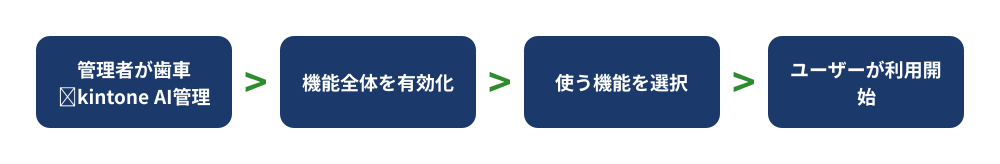
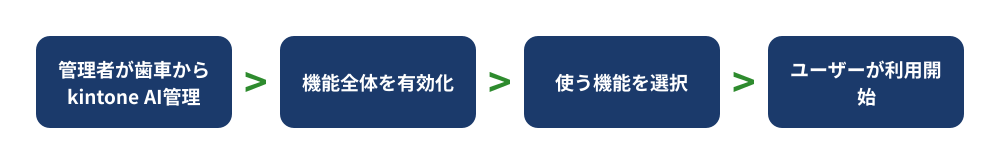
feat(blog): kintone一括更新の方法とプラグイン比較を公開
GSC で 40 記事を需要クエリと突き合わせて残っていた唯一の空き枠。
「kintone 一括更新」は 24.3位 で受け皿が製品ページ1枚だけ、
/plugins/bulk-update/ は 246表示・CTR 2.0%（製品ページ56枚の平均
6.63% の1/3）だった。型は比較・おすすめ型（90日で CTR 5.51%。
解説型は 2.53%）に寄せた。

仕様はすべて一次情報で確認（公式ヘルプ＋REST APIリファレンス）
- 一覧のインライン編集は1件ずつで、複数まとめては不可。編集できる型は
  13種、テーブル内・ルックアップ設定・関連レコードの条件に使う項目は不可。
  アプリ管理者が［レコード一覧でのインライン編集］を有効化する必要がある
- CSVの更新キーは公式表現で「同じアプリ内でほかのレコードと値が重複しない
  フィールド」＝レコード番号が使える（重複禁止設定を必須とは書かれていない）
- 上限は Excel 1MB/1,000行/500列、CSV等 100MB/10万行、書き出しは1ファイル100MB
- REST PUT /records.json は一度に100件、1件でも失敗するとそのリクエストは
  丸ごとキャンセル。updateKey は重複禁止を設定した文字列1行または数値のみで
  CSVの更新キーと条件が違う

他社製品
- 一覧レコード一括更新/クリアプラグイン（無料）は提供元が合同会社ぱんだ商会。
  複数フィールド同時が当社との差
- rex0220 一括更新は有料。販売ページが403で価格の一次確認ができなかったため
  金額は記載しない

自社は かんたん一括更新／シート編集／エクセル一括貼り付け／ステータス一括実行
／ルックアップ自動同期 を用途別に対応づけた。ステータスの一括実行は仕組みが
違うので承認フロー記事へ切り分け。

図版は既存41記事と密度を比較して調整した。初稿は画像3枚・表2つ（平均 4.6/2.6
を下回りスクショ0枚）だったため、図解6枚＋自社製品スクショ流用6枚＝画像12枚・
表4つ・本文10,242字とし、直近の比較型2本（承認フロー13枚/4表・年齢計算12枚/6表）
と同水準にした。

副産物の不具合修正
図解の同梱フォント（Noto Sans JP サブセットWOFF）に → （U+2192）が無く、
豆腐（□）で描画されていた。公開済みの3枚が化けたままだったので矢印を言葉へ
置き換えて再生成し、gen-blog-figures.mjs に未収録文字を検知して exit 1 する
ガードを追加した。
- kintone-tsuuchi-settei-triage.png
- kintone-shonin-flow-plugin-hikaku-contrast.png
- kintone-2026-06-update-ai-flow.png

内部リンク
- CSV記事の末尾から新記事へ（CSV記事は更新キーを扱っていなかった）
- /plugins/bulk-update/ の課題セクションから新記事へ

お知らせ blog-kintone-ikkatsu-koushin.md（category: release・ogImage は記事と同じ
バナー）を同じコミットに含める。SITE_STRUCTURE.md も更新。

Changed region(s): [[0.062, 0.5183, 0.217, 0.6707], [0.062, 0.3659, 0.217, 0.4878]]

diff --git a/src/content/blog/kintone-ikkatsu-koushin.md b/src/content/blog/kintone-ikkatsu-koushin.md
@@ -1,0 +1,247 @@
+---
+title: "【2026年版】kintone一括更新の方法とプラグイン比較｜標準の限界とCSVの注意点"
+description: "kintoneで複数レコードをまとめて更新する方法を5つ比較しました。一覧のインライン編集は1件ずつしかできず、同じ値を複数レコードへ入れる標準機能はありません。CSV再インポートの更新キーの条件、無料プラグイン3製品の違い、元に戻せるかまで実務目線で整理します。"
+pubDate: 2026-08-30
+author: "KIZUNA Works"
+tags: ["kintone", "一括更新", "CSV", "プラグイン", "業務効率化"]
+ogImage: "/images/blog/kintone-ikkatsu-koushin.png"
+---
+
+本記事は、kintoneの構築・カスタマイズとプラグイン開発の実務経験を持つ筆者が、サイボウズ公式ヘルプおよび kintone REST API リファレンスの記載と、実際の運用で得た知見をもとに整理したものです。仕様の数値はすべて一次情報で確認しています（確認日：2026年8月30日）。
+
+月末、受注アプリの「請求ステータス」を40件ぶん「請求済」に変えたい。やることは同じ値を入れるだけなのに、レコードを開いて、直して、保存して、一覧に戻る——これを40回。10分もかからないはずの作業に、30分かかる。
+
+この記事で分かることは次の3つです。
+
+- kintoneの標準機能で複数レコードをまとめて更新できる範囲と、**できない部分**
+- CSVの再インポートで一括更新する手順と、更新キーでつまずくポイント
+- 一括更新プラグイン3製品の違いと、**元に戻せるかどうか**という選定軸
+
+なお、この記事が扱うのは「フィールドの値をまとめて書き換える」話です。プロセス管理のステータスを一括で進める話は仕組みが根本的に違うため、[kintone承認フローのプラグイン比較](/blog/kintone-shonin-flow-plugin-hikaku/)で別に扱っています。
+
+![kintoneで複数レコードをまとめて更新する5つの方法の全体像。一覧のインライン編集・CSV再インポート・一括更新プラグイン・シート編集・JavaScriptカスタマイズを、費用と向く場面で並べた比較図](/images/blog/kintone-ikkatsu-koushin-overview.png)
+
+## 結論：同じ値を複数レコードに入れる標準機能はない
+
+先に答えを書きます。kintoneには、**一覧で選んだ複数のレコードに同じ値をまとめて入れる標準機能がありません**。
+
+「一覧画面で直接編集できるじゃないか」と思われるかもしれません。確かにインライン編集はありますが、公式ヘルプが明記しているとおり、編集アイコンと削除アイコンは行ごとに置かれた個別の操作です。[［レコードの一覧］画面でレコードを編集／削除する](https://jp.kintone.help/k/ja/app/using_app/edit_record.html)にも、まとめて操作する手段は書かれていません。
+
+つまり標準の範囲で選べるのは、次の2つだけです。
+
+1. **一覧のインライン編集**で、1件ずつ手早く直す
+2. **CSVを書き出して直し、再インポート**して上書きする
+
+40件を「請求済」にしたいという冒頭の例なら、1が現実的な下限、2が現実的な上限。この2つの間に、プラグインやカスタマイズという選択肢が入ります。
+
+## 標準機能でできること・できないこと
+
+### 一覧のインライン編集は「1件ずつ速く」の手段
+
+インライン編集は、詳細画面を開かずに一覧の上で値を直せる機能です。アプリ管理者が［レコード一覧でのインライン編集］を有効にしておく必要があり、利用者側にはレコードの編集権限が必要です。
+
+編集できるのは、文字列（1行・複数行）、数値、ラジオボタン、チェックボックス、複数選択、ドロップダウン、日付、時刻、日時、リンク、ユーザー選択、組織選択、グループ選択。この範囲に入っていても、次の場合は編集できません。
+
+- 関連レコード一覧の条件指定に使われているフィールド
+- ルックアップの設定で使われているフィールド
+- **テーブル（サブテーブル）の中に置かれたフィールド**
+
+![kintoneのインライン編集の3つの制約。操作は1件ずつ・編集できる型は13種のみ・テーブル内やルックアップ設定に使う項目には効かない](/images/blog/kintone-ikkatsu-koushin-inline-limit.png)
+
+編集アイコンがグレーになっているときは、レコード単位のアクセス権で制限されている可能性があります。権限の問題なので、フィールドの型を疑う前にそちらを確認してください。
+
+> 5件や10件なら、インライン編集で十分間に合います。判断の目安は「往復の回数」。20件を超えたあたりから、CSVかプラグインを検討する価値が出てきます。
+
+### CSVの再インポートは「更新キー」がすべて
+
+CSVで既存レコードを上書きする場合、鍵になるのが**更新キー**です。公式ヘルプは更新キーを「アプリのレコードと読み込むファイルの行をひも付けるためのアプリのフィールド」と説明し、「レコード番号や受注番号など、**同じアプリ内でほかのレコードと値が重複しないフィールド**」を指定するよう案内しています。
+
+レコード番号を更新キーにできるのが実務では大きい。専用の管理番号を用意していないアプリでも、レコード番号で確実にひも付けられます。
+
+![CSV再インポートの更新キーの対比。更新キーが一意ならファイルの各行が1レコードにひも付き、重複や空だと行とレコードを1対1でひも付けられない](/images/blog/kintone-ikkatsu-koushin-updatekey.png)
+
+必要な権限は［アプリのアクセス権］の［ファイル読み込み］。読み込み先のフィールドによっては、さらに［アプリ管理］の権限が要ります。「自分の画面には読み込みボタンが出ない」というときは、まずここです。
+
+ファイルの上限も押さえておきましょう。
+
+| 形式 | ファイルサイズ | 行数 | 列数 |
+|---|---|---|---|
+| Excel（xlsx） | 1MBまで | 1,000行まで | 500列まで |
+| CSV / TSV / TXT | 100MBまで | 10万行まで | — |
+
+Excelの1,000行という上限は、思っているより早く来ます。数千件を扱うなら、Excelで編集したあとCSVで保存して読み込むのが安全です。書き出し側は1ファイル100MBまでで、これを超えると失敗します。
+
+![CSV再インポートで一括更新する流れ。一覧で対象を絞り込み、CSVを書き出し、Excelなどで値を直し、更新キーを指定して読み込む4ステップ](/images/blog/kintone-ikkatsu-koushin-csv-flow.png)
+
+手順そのものは4ステップです。
+
+1. 更新したいレコードだけが出るように、一覧で**絞り込む**
+2. その一覧からCSVを**書き出す**（レコード番号の列を必ず含める）
+3. ExcelやCSVエディタで、変えたい列だけ**書き換える**
+4. アプリに**読み込み**、更新キーにレコード番号を指定する
+
+書き出したファイルを元に編集するのが公式の推奨です。列の順番やフィールドコードの表記を自分で組み立てると、そこで事故が起きます。
+
+CSVの文字化けや列の対応でつまずいたときは、読み書きの基本をまとめた[kintoneのCSV読み込み・書き出しの手順](/blog/kintone-csv-import-export/)を先に読むと早いはずです。
+
+### CSV方式が向かない場面
+
+CSVは強力ですが、月に何度も回す運用には向きません。理由は3つあります。
+
+書き出し・編集・読み込みの**3手順を人が繰り返す**ので、単純に手間が残ります。次に、Excelを経由すると先頭ゼロの欠落や日付形式の変換といった**Excel側の事故**が混ざります。そして、読み込みは上書きなので、**間違えたときに戻す手段が自分で用意した控えのCSVしかない**。
+
+「四半期に一度の棚卸し」ならCSVで十分。「毎週の締め処理」なら、次の選択肢を検討したほうがいいでしょう。
+
+## 一括更新プラグイン3製品を比較する
+
+一覧で絞り込んで、フィールドと値を選んで実行する。この形にすると、40件が数クリックで終わります。ここでは実際に選択肢になる3製品を並べます。
+
+![kintone標準のまま1件ずつ直す場合と、一括更新プラグインを入れた場合の対比。標準は開く・直す・保存・戻るを件数ぶん繰り返すが、プラグインなら絞り込んで値を選んで一度に反映できる](/images/blog/kintone-ikkatsu-koushin-contrast.png)
+
+### かんたん一括更新 for kintone（KIZUNA Works・無料）
+
+当社製です。標準のレコード一覧で絞り込んだ結果に対し、フィールドを1つ選んで値をまとめて反映、または空にできます。
+
+![かんたん一括更新 for kintone 導入後の案件管理アプリの一覧画面。ツールバーの一覧セレクタの右に「一括更新」「一括クリア」ボタンが並び、各行の右端にはkintone標準のインライン編集アイコンがある](/images/bulk-update-list.png)
+
+数値フィールドでは「値を設定／加算／減算」を選べます。加算・減算はレコードごとに現在値±入力値で計算されるので、「対象40件の在庫数をそれぞれ5引く」という処理が一度で終わります。同じ値で上書きするだけの製品では、これができません。
+
+対象はクイックサーチや標準の絞り込みに一致するレコードだけ。実行前に対象件数が表示されるので、絞り込みを間違えたまま実行する事故を防げます。1万件を超える場合もカーソル方式で分割取得し、100件ずつ反映しながら進捗バーを出します。
+
+![かんたん一括更新の実行ダイアログ。「現在の絞り込み条件に 30 件が一致しています」と件数が出て、対象フィールドに「ステータス」、選択肢に「受注」を選んで更新実行できる](/images/bulk-update-popup.png)
+
+**戻す手段を2段構えにしている**のがこの製品の設計方針です。完了画面の「元に戻す」で直前の操作を1回だけ取り消せるほか、変更前後の値を保管アプリに記録しておけば、設定画面の履歴一覧から過去の操作を実行前の値へ一括で戻せます。
+
+![かんたん一括更新の設定画面の変更履歴。実行日時・実行者・対象フィールド・操作（加算/更新）・設定値・成功件数が並び、各行に「変更前後」と「この状態に戻す」ボタンがある](/images/bulk-update-history.png)
+
+対象外になるものも明記しておきます。計算・レコード番号・作成日時/更新日時・作成者/更新者・カテゴリー・添付ファイル・ルックアップ・重複禁止フィールドは自動的に除外され、一括クリア時は必須フィールドも除外されます。**サブテーブル内のフィールドとプロセス管理のステータスは、v1.0.0では対象外**です。動作するのはPC版の標準レコード一覧で、モバイル版・カレンダービュー・カスタマイズビューでは動きません。
+
+[かんたん一括更新を無料でダウンロードする →](/plugins/bulk-update/)
+
+### 一覧レコード一括更新/クリアプラグイン（TIS／合同会社ぱんだ商会・無料）
+
+無料で公開されている定番です。一覧に表示中のレコードを一括で更新したり、不要な値を一括でクリアしたりできます。**複数フィールドを同時に操作できる**のが当社製品との明確な違いで、「担当者と対応日を同時に入れる」ような使い方はこちらが向きます。
+
+対応フィールド型・件数の上限・サブテーブルやモバイルへの対応は、公式ページに明記がありません。大量件数や特殊な型を扱う予定があるなら、検証アプリで試してから本番に入れるのが安全です。
+
+[公式ページ（合同会社ぱんだ商会）→](https://www.tis2010.jp/bulkupdate/)
+
+### rex0220 一括更新プラグイン（有料）
+
+有料製品で、機能の幅がいちばん広い選択肢です。公開情報によると、一覧画面での一括更新に加えて詳細画面での更新、用途に応じた**更新項目セットの複数登録**、計算式によるフィールドの自動セット、並列処理による大量件数への対応、3言語対応を備えています。PC専用です。
+
+価格は販売ページで確認してください。買い切り・サイト単位の価格設定と案内されていますが、金額は改定されることがあるため本記事では記載しません。
+
+### 比較表
+
+| 項目 | かんたん一括更新 | 一覧レコード一括更新/クリア | rex0220 一括更新 |
+|---|---|---|---|
+| 価格 | 無料 | 無料 | 有料（公式で確認） |
+| 提供元 | KIZUNA Works | 合同会社ぱんだ商会 | rex0220 |
+| 同時に扱えるフィールド | 1つ | 複数 | 複数（項目セット登録） |
+| 数値の加算・減算 | 対応 | 記載なし | 計算式で対応 |
+| 元に戻す | Undo＋履歴から復元 | 記載なし | 記載なし |
+| 実行ユーザーの制限 | 全員／管理者／指定 | 記載なし | 記載なし |
+| サブテーブル | 対象外（v1.0.0） | 記載なし | 記載なし |
+
+「記載なし」は公式ページで確認できなかった項目です。実際には対応している可能性があるので、要件に直結する項目は各社へ確認してください。
+
+## 一覧のまま表計算のように直したい場合
+
+一括更新プラグインは「同じ値を、まとめて」入れる道具です。**レコードごとに違う値を入れたい**ときには向きません。40件それぞれに別の金額を入れるなら、値を1つ選ぶ方式では処理できないからです。
+
+この用途には、一覧そのものを表計算グリッドに置き換えるアプローチがあります。当社の[シート編集 for kintone](/plugins/sheet-edit/)は、カスタマイズビューをExcelのような編集可能な表にします。範囲選択での一括編集、コピー＆ペースト、連番や日付を続きから埋めるオートフィル、元に戻す/やり直しに対応しているので、Excelを触る感覚のまま複数レコードを更新できます。サブテーブルの各行もグリッドに展開して編集できます。
+
+![シート編集 for kintone 導入後のkintone一覧。表計算ソフトのようなグリッドに案件が並び、1000件ずつのページ切り替えタブとExcel出力ボタン、元に戻す/やり直しボタンが付いている](/images/sheet-edit-after-01.png)
+
+Excelで作った表をそのまま持ち込みたいなら、[エクセル一括貼り付け for kintone](/plugins/excel-paste/)のほうが早い。一覧画面に貼り付けるだけで複数レコードを一括作成でき、見出し行を含めればフィールドとの対応が自動マッピングされます。CSVファイルを作る手順そのものが要りません。
+
+![エクセル一括貼り付けのプレビュー画面。貼り付けた表データが顧客名・部署・金額・期日・状態・備考の列に自動で割り当てられ、「1行目を見出し行として使う」にチェックが入っている](/images/excel-paste-modeB-preview.png)
+
+## JavaScriptで組む場合に知っておくこと
+
+要件が複雑で自作する場合は、REST APIの[複数のレコードを更新する](https://cybozu.dev/ja/kintone/docs/rest-api/records/update-records/)を使います。実装前に押さえるべき仕様が3つあります。
+
+**一度に扱えるのは100件まで。** それ以上は分割してリクエストを繰り返す必要があります。当社製品が「100件ずつ反映」しているのもこの制約によるものです。
+
+**処理に失敗すると、そのリクエストに含めたレコードの更新はすべてキャンセルされます。** 100件のうち1件でも弾かれれば、その100件は丸ごと反映されません。分割して投げる場合、途中で止まると「前半だけ更新済み」という中途半端な状態が残ります。再実行できる作りにしておくことが大切です。
+
+![REST APIで一括更新するときの制約。対象を100件ずつに分割して送信し、1件でも失敗するとその100件は丸ごと未反映になる流れ](/images/blog/kintone-ikkatsu-koushin-api-limit.png)
+
+**更新できないフィールドがあります。** ルックアップ元からコピーされるフィールド、ステータス、カテゴリー、計算、作業者、作成者、作成日時、更新者、更新日時、自動計算が設定されている文字列1行フィールドは、APIからも値を更新できません。
+
+なお、フィールドの値を指定して更新する `updateKey` に使えるのは、**重複禁止を設定した「文字列（1行）」または「数値」フィールドのみ**です。CSVの読み込みではレコード番号を更新キーにできますが、APIでは同じようにはいきません。ここは混同しやすいポイントです。
+
+## 一括更新できないときに見る場所
+
+「一括更新プラグインを入れたのに、目的のフィールドが選べない」「CSVを読み込んだのに値が変わらない」。よくある原因を上から順に挙げます。
+
+| 原因 | どこを見るか |
+|---|---|
+| フィールドの型が対象外 | 計算・レコード番号・作成者/更新者・作成日時/更新日時・カテゴリー・添付ファイル・ルックアップ・重複禁止は、CSV読み込みでもAPIでも更新できない |
+| ステータスを値として入れようとしている | ステータスは値の設定ではなくアクションの実行で変わる。アクション実行に対応した仕組みが必要 |
+| 更新キーが重複している、または空 | 同じ値のレコードが複数あると、どれを更新すべきか特定できない |
+| 権限が足りない | CSV読み込みは［ファイル読み込み］権限、フィールドによってはアプリ管理権限。プラグインはレコードとフィールドの編集権限 |
+| ルックアップのコピー元に重複がある | 参照先フィールドに重複があるとレコードを特定できず、値の登録も更新もできない（公式ヘルプに明記） |
+| サブテーブル内を狙っている | 多くの手段でテーブル内は対象外。CSVでも、添付ファイルフィールドを含むテーブルは既存レコードの更新時に扱えない |
+
+とくに引っかかりやすいのが2番目です。プロセス管理のステータスは、フィールドに文字を入れれば変わるものではありません。一括で進めるには、現在のステータスごとにアクションを選んで実行する仕組みが要ります。[ステータス一括実行 for kintone](/plugins/status-bulk-action/)は、対象を現在ステータスでグループ分けし、グループごとに実行するアクションを選ぶ形にしています。
+
+![ステータス一括実行のダイアログ。対象30件が「下書き8件」「承認済2件」「課長承認待ち14件」「部長承認待ち6件」と現在ステータスごとにグループ分けされ、グループごとに実行するアクションを選べる](/images/status-bulk-action-groups.png)
+
+マスターを直したのにコピー済みの値が古いまま、という場合は一括更新とは別の問題です。ルックアップで取り込んだ値は参照ではなくコピーなので、マスター側を直しても既存レコードは変わりません。この追従を自動化するのが[ルックアップ自動同期 for kintone](/plugins/lookup-sync/)（プレミアム・基本機能は無料で試せます）です。
+
+## ケース別の選び方
+
+先に一覧表で整理します。「戻せるか」の列は、実務でいちばん後悔しやすいところです。
+
+| 手段 | 件数の目安 | 値の入れ方 | 戻せるか |
+|---|---|---|---|
+| インライン編集 | 〜10件 | 1件ずつ手で | kintone標準の変更履歴から1件ずつ |
+| CSV再インポート | 〜10万行 | 行ごとに違う値 | 事前に書き出したCSVを読み直す |
+| 一括更新プラグイン | 数十〜数万件 | 全件に同じ値（数値は加減算も） | 製品による。当社製はUndo＋履歴 |
+| グリッド編集・貼り付け | 1,000件ずつ表示 | 行ごとに違う値 | 画面上の元に戻す/やり直し |
+| JavaScript | 分割すれば上限なし | 自由 | 自分で作り込む |
+
+### 5〜10件を、いま直したい
+
+インライン編集で終わらせるのがいちばん速いです。プラグインの設定を開く時間のほうが長くつきます。
+
+### 絞り込んだ数十〜数千件に、同じ値を入れたい
+
+一括更新プラグインの出番です。無料の2製品のどちらでも用は足りますが、**同時に複数フィールドを入れたいならTIS製、数値の加減算や「戻せること」を重視するなら当社製**という分かれ方になります。
+
+### 月次・週次で繰り返す締め処理
+
+繰り返すなら、手順が固定される仕組みに寄せてください。CSVの3手順を毎回人がやる運用は、担当者が変わったときに崩れます。実行できるユーザーを制限できるかどうかも、この段階では選定条件になります。
+
+### レコードごとに違う値を入れたい
+
+一括更新プラグインでは処理できません。シート編集のようなグリッド編集か、Excelからの貼り付け、あるいはCSVの再インポートを選びます。
+
+### 数万件・計算式での値の組み立てが必要
+
+有料製品か、JavaScriptでの実装を検討する規模です。無料製品で無理に回すより、要件に合った道具を選んだほうが結果的に安く済みます。
+
+## 事故を防ぐために決めておくこと
+
+一括更新は、便利さと危うさが同じところから来ます。1回の操作で数百件が書き換わるので、間違えたときの被害も数百件ぶんです。
+
+導入の前に、次の2点を決めておくことをおすすめします。
+
+**戻す手段があるか。** 実行直後のUndoだけでは、翌日に気づいた間違いには対応できません。変更前の値を残す仕組み（プラグインの履歴機能、または実行前のCSV書き出し）を運用手順に組み込んでください。誰がいつ何を変えたかを追う方法は[kintone変更履歴の見方と保存期間](/blog/kintone-henkou-rireki/)にまとめています。
+
+**誰が実行できるか。** 一覧にボタンが出ていれば、権限のある人は誰でも押せます。実行ユーザーを絞れる製品なら絞る。絞れないなら、そもそもボタンを出すアプリを限定する。この判断を後回しにすると、「誰かが押したらしい」という調査から始めることになります。
+
+## まとめ
+
+- kintoneには、**一覧で選んだ複数レコードに同じ値をまとめて入れる標準機能がない**。インライン編集は1件ずつ、テーブル内やルックアップ設定に使われるフィールドは対象外
+- 標準の範囲で一括更新するなら**CSVの再インポート**。更新キーには「同じアプリ内で値が重複しないフィールド」を指定し、**レコード番号が使える**
+- ファイル上限は **Excelが1MB・1,000行・500列、CSV等が100MB・10万行**。数千件ならExcelではなくCSVで
+- 無料プラグインは2製品。**複数フィールド同時ならTIS製、数値の加減算と戻せることなら当社の[かんたん一括更新](/plugins/bulk-update/)**
+- レコードごとに違う値を入れるなら、一括更新プラグインではなく**グリッド編集か貼り付け**を選ぶ
+- 自作する場合、REST APIは**一度に100件まで**で、**1件でも失敗するとそのリクエストは丸ごとキャンセル**される
+- 一括更新できない原因は、フィールドの型・ステータス・更新キーの重複・権限・ルックアップのコピー元の重複・サブテーブルのどれか
+- 導入前に「**戻す手段**」と「**実行できる人**」を決める。1回の操作で数百件が動くので、事故の規模も数百件ぶんになる
+
+一括更新の設計や、どの手段が自社の運用に合うかのご相談は[お問い合わせ](/contact/)からお気軽にどうぞ。目的別の製品選びは[kintoneプラグインのおすすめと選び方（やりたいこと別）](/blog/kintone-muryou-plugin-osusume/)、製品そのものは[無料のkintoneプラグイン一覧](/plugins/)からご覧いただけます。

diff --git a/SITE_STRUCTURE.md b/SITE_STRUCTURE.md
@@ -251,7 +251,8 @@ c:\kizuna-works.jp\
 │   │       ├── kintone-shukei.md                    # 「【2026年版】kintoneの集計方法まとめ｜一覧・テーブル・関連レコードで合計を出す」記事（「kintone 集計」ハブ記事＝集計は場所で詰まるという切り口／標準の集計方法5つ＝レコード数・合計・平均・最大値・最小値／分類は大中小の3段まで／グラフ種類は棒(集合/積み上げ/100%)・折れ線・曲線・面・曲線面・円・表・クロス集計表／上限＝グラフ表示は先頭500項目・クロス集計表は分類後10,001以下かつ1,000行×50列・ファイル出力10,001種類／一覧に合計行は出せず絞り込みもグラフと非連動／「テーブルは集計できない」は誤り＝標準グラフで集計可・合計平均最大最小は明細行単位でレコード数はレコード単位・行数を数える集計方法は無い（自社実機検証）／関連レコード一覧は公式に「集計、自動計算、アプリ内検索の操作の対象になりません」＋ファイル書き出し不可＋一覧画面に表示不可／集計サマリーバー・テーブルアシスト・関連レコード拡張・ダッシュボード・カードボードを紹介・図解3枚 kintone-shukei-{flow,overview,contrast}.png ＋ プラグイン実機スクショ4枚 ＋ ヒーローバナー kintone-shukei.png）
 │   │       ├── kintone-record-list.md               # 「【2026年版】kintoneのレコード一覧完全ガイド｜作り方・絞り込み・並び順と標準の5つの限界」記事（表示形式3種類＝表形式/カレンダー/カスタマイズ・カスタマイズはシステム管理権限必須＋他形式へ戻せない／作り方4項目とソート最大5／絞り込み条件の「ログインユーザー」で担当者別一覧を1枚に／表示件数は初期20件でユーザーごと・管理者は変更不可／デフォルトの一覧は［一覧］タブ一番上の1つだけ／標準の限界5つ＝一覧にアクセス権を設定できない・デフォルトは1つ・増えすぎ・列が流れる・詳細への往復／削除せず整理する5ステップ／一覧コントロール・一覧スタイラー・クイックサーチ・絞り込み拡張・クイックサイドビュー・カードボード・ダッシュボードを紹介・図解3枚 kintone-record-list-{formats,steps,solutions}.png ＋ kintone標準画面のスクショ6枚 kintone-record-list-{table,calendar,view-edit,loginuser,views-tab,view-switch}.png ＋ プラグイン画面3枚 kintone-record-list-plugin-{after,default,config}.png）
 │   │       ├── kintone-nenrei-keisan.md              # 「kintone年齢計算の式まとめ｜日付計算でTODAYが使えない問題の解決法【2026年版】」記事（「kintone 年齢計算」「kintone 日付 計算」向け。**実機で式を1本ずつ通した検証記事**＝TODAY/NOW/YEARは「使用できません」と明示エラー／日付は式の中で秒数扱い＝60*60*24で割る／「今日」の代わりは`更新日時`だけで**フォームに配置しないと「フィールドコード（更新日時）が存在しません」でフォーム保存不可**（作成日時は登録時点で固定）／**DATE_FORMATは単独なら数字が出るが引き算・比較・&連結の項にすると値が空になる**（保存は通る。"YYYYMMdd"のような複合書式も空）／年齢は**2段構え**＝1段目で年月日を6フィールドに取り出し2段目で `y_now - y_bir - IF(m_now*100+d_now < m_bir*100+d_bir, 1, 0)`＝**45件の境界テスト（1〜80年前×誕生日前日/当日/翌日）でずれ0件**、`365.2425`割りの概算式は**45件中2件（10年前・18年前の誕生日当日）で1歳少なく出た**／在籍期間は年数＋端月数(30.436875割り)で**500件検算しずれ0件**、文字を混ぜる「◯年◯ヶ月」は**文字列(1行)フィールドの自動計算**（計算フィールドの&は空）／N日後は表示形式「日付」で可／曜日・営業日・月末は標準では出せない／**空の日付は1970/1/1扱いで −16,161日のような値**になりIFで分岐が必要／実機スクショ6枚 kintone-nenrei-keisan-0{1-error,2-dialog,3-form,4-detail,5-list,6-blank}.png ＋ 図解4枚 kintone-nenrei-keisan-{seconds,twostep,three,limits}.png ＋ 流用2枚 elapsed-assist-{list,config-01}.png ＋ ヒーローバナー kintone-nenrei-keisan.png。経過計算アシスト・かんたん一括更新へ誘導）
-│   │       └── kintone-shonin-flow-plugin-hikaku.md    # 「kintone承認フローのプラグイン比較【2026年版】｜一括承認・代理承認・承認後の編集ロック」記事（比較型。GSC実績ゼロの空白地帯 `kintone 承認フロー`／サジェスト21語を狙う。**検証テナントに稟議申請アプリ（下書き→課長承認待ち→部長承認待ち→完了・金額10万円以上で部長承認を挟む条件分岐）を作って実測**＝①一覧のステータスはただの文字でアクションのボタンは無い ②**代理承認はアプリ管理者でも不可**（「このアクションは作業者のみ実行できます」）で**一括更新API `PUT /records/status.json` でも同じ**＝プラグインでも越えられない〔一括承認で進むのは自分が作業者のレコードだけ〕 ③アクションの実行条件は**数値に `>` `<` が使えず ≧/≦/=/≠ だけ**（「10万円未満」は ≦99999）・`like`・`in`・`TODAY()` は可 ④**承認後の編集制限はレコードのアクセス権の条件にステータスを指定すれば標準で塞げる**（実機で `ステータス in ("完了")` の ACL 設定が通ることを確認）＝ここは「標準では不可」と書かない。他社3製品は一次情報で確認＝rex0220 一括承認Ver.15（最大20万件・並列処理・3言語・**作業者の指定が必須なアクションは非対応と明記**・買い切り／サブスク月16,000円〜税別）／ATTAZoo+（新明和ソフトテクノロジ・19本セット・月3,960円〜税込・ステータス更新＋／作業者更新＋）／Smart at 申請パック（M-SOLUTIONS・初期10万＋年額9万〜税抜・テンプレ17種・申請状況の横断一覧）。自社は詰まりどころ別にステータス一括実行／条件分岐フォーム／レコードロック／クイック履歴ビュー／チャット通知を対応づけ。**一括実行はREST経由なので詳細画面のJSカスタマイズのチェックは走らない**点を自社製品にも明記。実機スクショ4枚 kintone-shonin-flow-0{1-config,2-assignee,3-admin,4-list}.png ＋ 図解4枚 kintone-shonin-flow-plugin-hikaku-{limits,approach,contrast,caution}.png ＋ 自社製品スクショ流用5枚 ＋ ヒーローバナー kintone-shonin-flow-plugin-hikaku.png。表4つ）
+│   │       ├── kintone-shonin-flow-plugin-hikaku.md    # 「kintone承認フローのプラグイン比較【2026年版】｜一括承認・代理承認・承認後の編集ロック」記事（比較型。GSC実績ゼロの空白地帯 `kintone 承認フロー`／サジェスト21語を狙う。**検証テナントに稟議申請アプリ（下書き→課長承認待ち→部長承認待ち→完了・金額10万円以上で部長承認を挟む条件分岐）を作って実測**＝①一覧のステータスはただの文字でアクションのボタンは無い ②**代理承認はアプリ管理者でも不可**（「このアクションは作業者のみ実行できます」）で**一括更新API `PUT /records/status.json` でも同じ**＝プラグインでも越えられない〔一括承認で進むのは自分が作業者のレコードだけ〕 ③アクションの実行条件は**数値に `>` `<` が使えず ≧/≦/=/≠ だけ**（「10万円未満」は ≦99999）・`like`・`in`・`TODAY()` は可 ④**承認後の編集制限はレコードのアクセス権の条件にステータスを指定すれば標準で塞げる**（実機で `ステータス in ("完了")` の ACL 設定が通ることを確認）＝ここは「標準では不可」と書かない。他社3製品は一次情報で確認＝rex0220 一括承認Ver.15（最大20万件・並列処理・3言語・**作業者の指定が必須なアクションは非対応と明記**・買い切り／サブスク月16,000円〜税別）／ATTAZoo+（新明和ソフトテクノロジ・19本セット・月3,960円〜税込・ステータス更新＋／作業者更新＋）／Smart at 申請パック（M-SOLUTIONS・初期10万＋年額9万〜税抜・テンプレ17種・申請状況の横断一覧）。自社は詰まりどころ別にステータス一括実行／条件分岐フォーム／レコードロック／クイック履歴ビュー／チャット通知を対応づけ。**一括実行はREST経由なので詳細画面のJSカスタマイズのチェックは走らない**点を自社製品にも明記。実機スクショ4枚 kintone-shonin-flow-0{1-config,2-assignee,3-admin,4-list}.png ＋ 図解4枚 kintone-shonin-flow-plugin-hikaku-{limits,approach,contrast,caution}.png ＋ 自社製品スクショ流用5枚 ＋ ヒーローバナー kintone-shonin-flow-plugin-hikaku.png。表4つ）
+│   │       └── kintone-ikkatsu-koushin.md            # 「【2026年版】kintone一括更新の方法とプラグイン比較｜標準の限界とCSVの注意点」記事（比較型。**40記事を需要クエリと突き合わせて残っていた唯一の空き枠**＝`kintone 一括更新` 24.3位・受け皿は製品ページ1枚だけ・bulk-update は 246表示/CTR 2.0%〔製品ページ平均 6.63%の1/3〕。仕様はすべて一次情報で確認＝①**一覧のインライン編集は1件ずつ**で複数まとめては不可（公式ヘルプに記載なし）・編集可能な型13種・関連レコードの条件指定/ルックアップ設定/テーブル内は不可・アプリ管理者が［レコード一覧でのインライン編集］を有効化する必要あり ②CSV更新キーは「同じアプリ内でほかのレコードと値が重複しないフィールド」で**レコード番号が使える**（重複禁止設定は必須と書かれていない）・権限は［ファイル読み込み］＋フィールドによりアプリ管理 ③**上限は Excel 1MB/1,000行/500列、CSV等 100MB/10万行、書き出しは1ファイル100MB** ④REST `PUT /records.json` は**一度に100件まで**・**失敗するとそのリクエストは丸ごとキャンセル**・`updateKey` は**重複禁止を設定した文字列1行または数値のみ**〔CSVはレコード番号可＝APIと条件が違う〕・更新不可フィールド9種。他社2製品は一次情報で確認＝一覧レコード一括更新/クリアプラグイン（**合同会社ぱんだ商会**・tis2010.jp・無料・複数フィールド同時が当社との差・制限事項は公式に記載なし）／rex0220 一括更新（有料・**価格は確証が取れなかったので記載しない**・更新項目セットの複数登録・計算式・並列処理・PC専用）。自社は かんたん一括更新／シート編集／エクセル一括貼り付け／ステータス一括実行／ルックアップ自動同期 を用途別に対応づけ。ステータスの一括実行は承認フロー記事へ切り分け。図解6枚 kintone-ikkatsu-koushin-{overview,inline-limit,csv-flow,updatekey,contrast,api-limit}.png ＋ 自社製品スクショ流用6枚 bulk-update-{list,popup,history}.png／sheet-edit-after-01.png／excel-paste-modeB-preview.png／status-bulk-action-groups.png ＋ ヒーローバナー kintone-ikkatsu-koushin.png。表4つ〔ファイル上限・製品比較・選び方マトリクス・つまずきの原因と確認場所〕。**図解の同梱フォント（Noto Sans JP サブセット WOFF）に `→`（U+2192）が無く豆腐になる**ため、`gen-blog-figures.mjs` に未収録文字を検知して exit 1 するガードを追加し、公開済みで化けていた kintone-tsuuchi-settei-triage.png／kintone-shonin-flow-plugin-hikaku-contrast.png／kintone-2026-06-update-ai-flow.png の3枚も矢印を言葉に置き換えて再生成した）
 │   └── styles/
 │       └── global.css          # グローバルCSS（最小リセット・スティッキーフッター用）
 │

diff --git a/src/content/news/blog-kintone-ikkatsu-koushin.md b/src/content/news/blog-kintone-ikkatsu-koushin.md
@@ -1,0 +1,13 @@
+---
+title: "ブログ記事「【2026年版】kintone一括更新の方法とプラグイン比較」を公開しました"
+description: "kintoneで複数レコードをまとめて更新する5つの方法を比較しました。一覧で選んだ複数レコードに同じ値を入れる標準機能はありません。CSV再インポートの更新キーの条件、無料プラグイン3製品の違い、元に戻せるかまで整理しています。"
+pubDate: 2026-08-30
+category: release
+ogImage: "/images/blog/kintone-ikkatsu-koushin.png"
+---
+
+kintoneには、一覧で選んだ複数のレコードに同じ値をまとめて入れる標準機能がありません。インライン編集は1件ずつ、CSVの再インポートは更新キーの条件があり、繰り返す運用には手順が残ります。
+
+記事では標準機能でできる範囲、CSVの上限値（Excelは1MB・1,000行、CSV等は100MB・10万行）、一括更新プラグイン3製品の違い、REST APIで自作する場合の制約（一度に100件・失敗時は丸ごとキャンセル）、そして「一括更新できないとき」に見る6つの原因までまとめました。
+
+[【2026年版】kintone一括更新の方法とプラグイン比較を読む →](/blog/kintone-ikkatsu-koushin/)

diff --git a/src/content/blog/kintone-csv-import-export.md b/src/content/blog/kintone-csv-import-export.md
@@ -179,4 +179,6 @@ kintoneのCSV読み込み・書き出しの要点を振り返ります。
 
 まずは標準で試し、残った不満だけをプラグインで補う。この順番なら、コストも手間も最小限で、CSVまわりのストレスから解放されます。
 
+CSVの再インポートで既存レコードを上書きしたい場合は、更新キーの条件や他の手段とあわせて[kintone一括更新の方法とプラグイン比較](/blog/kintone-ikkatsu-koushin/)にまとめています。
+
 CSVやExcelの運用でお困りのことがあれば、[お問い合わせ](/contact/)からお気軽にご相談ください。関連する話題として、[「Excelのほうがよかった」と言わせないkintone移行ステップ](/blog/kintone-excel-iko-steps/)や、[kintoneで帳票・PDFを出力する方法](/blog/kintone-cyouhyou-pdf-output/)、そのほかの[kintoneプラグインのおすすめと選び方](/blog/kintone-muryou-plugin-osusume/)もあわせてご覧ください。
